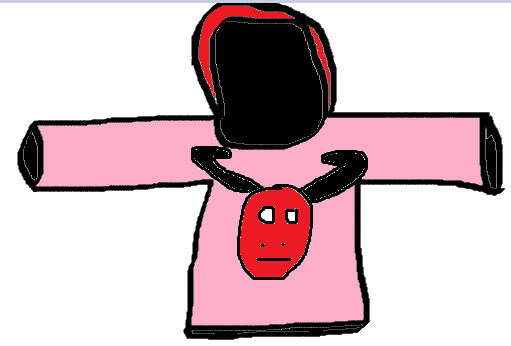
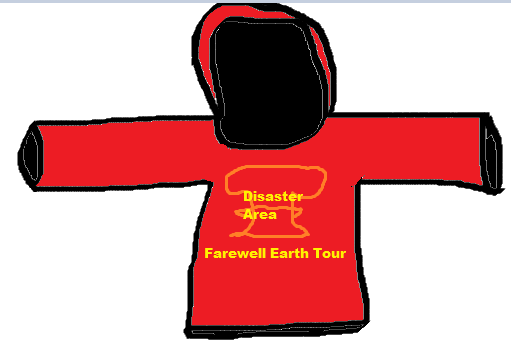
CSS added

Changed region(s): [[0.0587, 0.3179, 0.9393, 0.9538]]

diff --git a/apparel.html b/apparel.html
@@ -9,11 +9,13 @@
         </style>
 		<meta charset="utf-8">
 		<title>The Raging Socks</title>
+        <link rel="stylesheet" type="text/css" href="stylesheet.css">
+
 	</head>
 
     <body>
         <header>
-            <h1>Apparel</h1>
+            
             <nav>
                 <ul>
                     <li>
@@ -36,6 +38,7 @@
                     </li>
                 </ul>
             </nav>
+            <h1>Apparel</h1>
         </header>
 
         <p>This page has all of our current apparel options. If you would like 
@@ -52,17 +55,22 @@
         give away one item, per member, that we wore during the performance, so 
         if make sure to get front row seats and you might be able to catch our 
         freshly used socks!! </p>
+        <p><!-- new from matt w-->
+    We have an announcement to make. The Angry Socks have made first contact with some rather colorful known as Disaster Area, who claim to have no setting less than 100,000. While we are unsure of their measurements, we have graciously accepted their offer and will for a limited time be offering exclusive merchandise for their band on our webpage! Rock On Angry Socks!
+</p>
+        <p>We have another big announcement! We have made first contact with aliens! Apparently they are known as Disaster Area and share our love of Rock and Socks. They describe themselves as " a plutonium rock band from the Gagrakaka Mind Zones, and claim to be the loudest noise of any kind"-"Douglas Adams". We said that of course they would have to prove that, and so they are launching a tour with us now known for some reason as the Farewell Earth Tour. So get your merch and we hope you join us on January 1, 2022 in Times Square for the Farewell Earth Tour!
+        </p>
 
 
         <table>
             <tr>
-                <th></th>
+                <th class="blankspace"></th>
                 <th>Socks</th>
                 <th>Sweatshirts</th>
                 <th>Sweatpants</th>
             </tr>
             <tr>
-                <td>Previously Worn by a Bandmember</td>
+                <td>Previously Worn by a Band member</td>
                 <td>&#36;100</td>
                 <td>&#36;850</td>
                 <td>&#36;500</td>
@@ -74,12 +82,18 @@
                 <td>&#36;60</td>
             </tr>
         </table>
-                <img src="images/bull_socks.png" alt="Bull Design">
-                <img src="Images/hurricane_socks.png" alt="Hurricane Design">
-                <img src="Images/bull_sweatshirt.png" alt="Hurricane Design">
-                <img src="Images/hurricane_sweatshirt.png" alt="Hurricane Design">
-                <img src="Images/bull_sweatpants.png" alt="Bull Design">
-                <img src="Images/hurricane_sweatpants.png" alt="Hurricane Design">
+                <img src="images/bull_socks.png" alt="Bull Design" id="blue">
+                <img src="Images/hurricane_socks.png" alt="Hurricane Design"id="gold">
+                <img src="Images/bullsweater.png" alt="Hurricane Design"id="blue">
+                <img src="Images/hurricane_sweatshirt.png" alt="Hurricane Design"id="gold">
+                <img src="Images/bull_sweatpants.png" alt="Bull Design"id="blue">
+                <img src="Images/hurricane_sweatpants.png" alt="Hurricane Design"id="gold">
+                <img src="Images/disasterareasock2.png" alt="Disaster Area Socks" id="blue"><!--added by Matt W-->
+                <img src="Images/disasterarea_sweater.png" alt="Disaster Area Sweater" id="gold"><!--added by Matt W-->
+
+                
+                
+                
 
         <br>
         <footer>Contact Us: <br> Phone: 808-867-5309 <br>Email: real.email@website.com</footer>

diff --git a/accessories.html b/accessories.html
@@ -9,12 +9,15 @@
         </style>
 			<meta charset="utf-8">
 		<title> The Raging Socks</title>
+        <link rel="stylesheet" type="text/css" href="stylesheet.css">
+
 	</head>
 
 <body>
 	<header>
-		<h1>Accessories</h1>
+		
 		<nav>
+            <ul>
 			<li>
 			<a href="index.html">Homepage</a>
                     </li>
@@ -35,9 +38,11 @@
                     </li>
                 </ul>
             </nav>
+            <h1>Accessories</h1>
         </header>
 
 <p> Check out the newest drops of our accessories. They're whacky and wild but most importantly they're angry. And socks, we can't forget the socks. Socks are a must, but what do you expect from a band called The Angry Socks, huh? A bunch of cute fluffy kittens, well we do love them but this is all about angry socks and rock n' roll! Here we strive to bring you the highest quality materials so you can have the highest quality jam sessions, just like we do. We jam so hard Rufus came back and kicked out Bill and Ted. No more Wild Stallion, it is only The Angry Socks. Jack never has to tell us to crank it up to 11 because we never go lower than 12. Buy our stuff today and you’ll be able to get numerous noise complaint and cease and desist orders from your local police officers too. Party on Wayne!
+
 
 
   </p>
@@ -55,11 +60,13 @@
     </tr>
 </table>
 
-<img src="images/sock_keychain.jpg" alt="Keychain">
-<img src="images/guitar_pics.jpg" alt="Guitar Pics">
-<img src="images/flag.jpg" alt="Flag">
+<img src="images/sock_keychain.jpg" alt="Keychain" id="blue">
+<img src="images/guitar_pics.jpg" alt="Guitar Pics" id="gold">
+<img src="images/flag.jpg" alt="Flag" id="blue">
+<footer>
+        Contact Us: <br> Phone: 808-867-5309 <br>Email: real.email@website.com</footer>
 </body>
 
-<br>
-    <footer>Contact Us: <br> Phone: 808-867-5309 <br>Email: real.email@website.com</footer>
+
+
 </html>

diff --git a/sponsors.html b/sponsors.html
@@ -4,11 +4,13 @@
 	<head>
 		<meta charset="utf-8">
 		<title>The Raging Socks</title>
+        <link rel="stylesheet" type="text/css" href="stylesheet.css">
+
 	</head>
 
     <body>
         <header>
-            <h1>Sponsors</h1>
+            
 
             <nav>
                 <ul>
@@ -32,6 +34,7 @@
                     </li>
                 </ul>
             </nav>
+            <h1>Sponsors</h1>
         </header>
         
         <p>We would like to thank our very generous sponsors, without whom we 
@@ -50,10 +53,14 @@
             single gig we get, which means that we get about 200 free pairs of 
             socks every year. We really &lt;3 them.
         </p>
+        <p>
+            Another special sponsor we must mention is Bombas, who supply some of the socks we wear on stage! For every pair of socks we sell Bombas delivers one more pair of socks to those who truly need it. We are absolutely stoked that they have decided to sponsor Honolulu's Angriest Argyle in our ongoing quest to fight terrible socks and at the same time blast them off you when we rock out!
+            Again we are super stoked to do business with them.
+        </p>
             <ol>
                 <li><a href="https://darntough.com/" target="_blank">Darn Tough</a></li>
                 <li><a href="https://and1.com/" target="_blank">And 1</a></li>
-                <li>Skip Rushig</li>
+                <li>Skip Rushing</li>
                 <li><a href="https://bombas.com/" target="_blank">Bombas</a></li>
                 <li>Microsoft Paint</li>
                 <li>&Lambda;&Chi;&Alpha;</li>

diff --git a/tour_dates.html b/tour_dates.html
@@ -4,11 +4,13 @@
 	<head>
 			<meta charset="utf-8">
 		<title> The Raging Socks</title>
+		<link rel="stylesheet" type="text/css" href="stylesheet.css">
+
 	</head>
 
 <body>
 	<header>
-		<h1>Tour Dates</h1>
+		
 		<nav>
 			<ul>
 			<li>
@@ -31,6 +33,7 @@
                     </li>
                 </ul>
             </nav>
+            <h1>Tour Dates</h1>
         </header>
 
 <p> "Sock It to 'Em!"</p>
@@ -38,7 +41,7 @@ Coming to a city near you!
 
 <ol>
 <li>
-	<p> Honolulu, Hawaii 9&#47;16%#47;2021</p>
+	<p> Honolulu, Hawaii 9&#47;16&#47;2021</p>
 </li>
 <li>
 	<p> Sacremento, California 9&#47;17&#47;2021</p>
@@ -94,9 +97,20 @@ Coming to a city near you!
 	<li>
 	<p> Miama, Florida 10&#47;04&#47;2021</p>
 	</li>
+	<!-- added by Matt Wilkinson-->
+	<li>
+	<p>Mexico City, Mexico 10&#47;05&#47;2021</p>
+	</li>
+	<li>
+	<p>London, United Kingdom 10&#47;06&#47;2021</p>
+	</li>
+	<li>
+	<p>Nizhny Novgorosk Russia 10&#47;07&#47;2021</p>
+	</li>
+	<li>
+	<p>Tokyo, Japan 10&#47;08&#47;2021</p>
+	</li>
 </ol>
-</body>
-
 <video width = "320" height = "240" controls>
 	<source src="videos/seth.mp4" type="video/mp4">
 		Your browser may not support the video tag.

diff --git a/stylesheet.css b/stylesheet.css
@@ -1,0 +1,79 @@
+body{
+	background-color: #FFF8D4;
+}
+table{
+	border-style: Solid;
+	border-width: 20px;
+	font-style: unset;
+	margin: 20px;
+	max-width: 400px;
+	padding: 10px;
+	border-radius: 20px;
+	border-color: #3817AD;
+}
+th{
+	border-radius: 5px;
+	font-family: fantasy;
+}
+.blankspace{
+	border-style: none;
+}
+td {
+	border-radius: 5px;
+	text-align: center;
+}
+p{
+	
+	text-indent: 15px;
+}
+#blue {
+	border-style: solid;
+	border-width: 8px;
+	border-color:#3817AD;
+	border-radius: 5px;
+	padding: auto;
+	margin: 20px;
+}
+#gold {
+	border-width: 8px;
+	border-style: solid;
+	border-color: #F5E926;
+	border-radius: 5px;
+	margin: 20px;
+}
+img{
+	max-width: 300px;
+ height: auto;
+
+}
+/*--Nav Bar--*/
+nav ul {
+  list-style-type: none;
+  margin: 0;
+  padding: 0;
+  overflow: hidden;
+  background-color: #F5E926;
+  text-decoration-color: #3817AD; 
+  font-family: fantasy;
+  font-size: 20px;
+}
+
+nav li {
+  float: left;
+}
+
+nav li a {
+	;
+  display: block;
+  color: #3817AD ;
+  text-align: center;
+  padding: 16px;
+  text-decoration: none;
+}
+nav li a:hover{
+	background-color: #FF85F3; 
+}
+
+footer{
+	font-family: fantasy;
+}

diff --git a/about_us.html b/about_us.html
@@ -4,13 +4,15 @@
 
 <head>
 	<meta charset="utf-8">
-	<title>About Us</title></head>
+	<title>About Us</title>
+    <!-- matt wilkinson added css-->
+<link rel="stylesheet" type="text/css" href="stylesheet.css">
+</head>
 
 <body>
 	<header>
 		<nav>
-				<h1> ABOUT US
-				</h1>
+				
 			<ul>
                         <li>
                             <a href="index.html">Homepage</a>
@@ -32,8 +34,10 @@
                         </li>
                     </ul>
                 </nav>
+                <h1> ABOUT US
+                </h1>
 
-                <img src="Images/Boot.jpg" alt="boot picture">
+                <img src="Images/Boot.jpg" alt="boot picture" id="gold">
             </header>
             <p> WE ARE THE RAGING SOCKS! We are from Honolulu Hawaii. We were founded about 15 minutes ago. We have already gotten 3 platinum albums and 7 gold albums under our belt. We have been booked for the 2022 Super Bowl Halftime Show with Garth Brooks. We are very excited. Listen to our new hit single, "Program the Machine" on Spotify, Apple Music and SoundCloud. The music video will be released on 9&#47;14&#47;2021.<br> 
             	 BAND MEMBERS</p>

diff --git a/index.html b/index.html
@@ -12,18 +12,26 @@ Peter is a doodoo head, teehee.
 Hey no he is not Peter is super cute you big doodoo head
 Hi I'm Paul
 Not the monkey from Nick
+What do ya mean not the monkey from nick?
 -->
 <!DOCTYPE html>
 <html lang="en">
 	<head>
 		<meta charset="utf-8">
 		<title>The Raging Socks</title>
+        <!--inserting css internal and external-->
+        <link rel="stylesheet" type="text/css" href="stylesheet.css">
+        <style>
+            footer {
+                font-family: fantasy;
+            }
+            
+        </style>
 	</head>
 
     <body>
         <header>
-            <h1>The Raging Socks</h1>
-            <h2>Honolulu's Angriest Argyle</h2>
+            
 
             <nav>
                 <ul>
@@ -47,7 +55,9 @@ Not the monkey from Nick
                     </li>
                 </ul>
             </nav>
-            <img src="images/angry_argyle.jpg" alt="New Album Cover">
+            <h1>The Raging Socks</h1>
+            <h2 style="text-decoration: underline;">Honolulu's Angriest Argyle</h2>
+            <img src="images/angry_argyle.jpg" alt="New Album Cover" id="blue">
         </header>
 
         <p>
